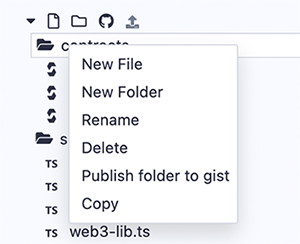
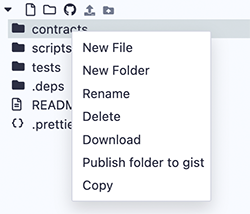
more updates to fe

diff --git a/docs/file_explorer.md b/docs/file_explorer.md
@@ -1,12 +1,12 @@
 File Explorer
 =============
-The File Explorer is for managing Workspaces and files.  There is also a context menu that pops up when you right click on a file or folder.
+The File Explorer is for managing workspaces and files.  There is also a context menu that pops up when you right click on a file or folder.
 
 To get to the File Explorer module - click the File Explorer icon.
 
 ![](images/a-file-explorer1a.png)
 
-The green checkmark at the top of the page means that this plugin is in the Remix codebase.  When you click on the caret it will show more info about the plugin including a link to this documentation.
+The green checkmark at the top of the page means that this plugin is maintained by Remix Team.  When the caret is clicked, more info about the plugin will be shown -including a link to this documentation.
 
 ![](images/a-fe-top-caret.png)
 
@@ -16,22 +16,30 @@ By default, Remix IDE stores files in **IndexedDB**.
 
 Coding in Remix IDE Online is different from writing in a Google doc. 
 - A Google doc saves your work to your account on Google’s servers.
-- Remix has no user accounts.  By default, files are ONLY saved locally in the browser’s storage. So tread carefully, browser storage is not permanent!
+- Remix has no user accounts. By default, files are ONLY saved locally in the browser’s storage. So tread carefully, browser storage is not permanent!
 
-See below for using other storage locations - notably **Remixd** to connect Remix to a specific folder on your hard drive.
+It is very important to have a file backup & file saving strategy. 
 
-**Important Note:** Clearing the browser storage & IndexedDB will **permanently delete** all the files stored there. 
+**Check the following techniques for:**
+- [saving to your hard drive](#file-storage-on-your-hard-drive)
+- using [remote Git repos](#connecting-remix-to-remote-git-repos)
+- [backing up workspaces](#backup).
+
+**Important Note:** Clearing the browser storage & IndexedDB will **permanently delete** all the files stored there. It is prudent to backup your workspaces before deleting them...just in case. 
 
 ### File Storage on your hard drive
-If you want to store files on your computer's filesystem, use **[Remixd](remixd.html)** or use the **[desktop version of Remix IDE](https://github.com/ethereum/remix-desktop/releases/)**. 
-- Remixd is a script that you run on your computer that shares a specified folder on your computer with Remix IDE.
-- Remix Desktop is a version of Remix IDE in an Electron app. When using Remix Desktop, you cannot use a browser wallet like MetaMask, because Remix Desktop does not run in a browser.  You'd need to connect using a service like Infura.
+#### Remixd
+For storing files on your computer's hard drive when using Remix Online IDE, use **[Remixd](remixd.html)** 
+- Remixd is an NPM module that runs on your computer. It allows you to share a specified folder on your computer with Remix IDE. 
+
+#### Remix Desktop
+Remix Desktop is a version of Remix IDE in an Electron app. Note that when using Remix Desktop, you cannot use a browser wallet like MetaMask, because Remix Desktop does not run in a browser.  To connect to public networks, you need to use service like Infura and then use the WalletConnect plugin to approve transactions on your mobile device.
 
 ### Connecting Remix to remote Git repos
 **If you are not using Remixd, it is highly recommended that you save to a remote repo.** 
 (Browsers do crash causing localstorage & indexedDB to be corrupted)
 
-Remix IDE can be connected to remote Git repos both on services like GitHub or repos in IPFS.  
+Remix IDE can be connected to remote Git repos hosted in GitHub (or similar service) or in IPFS.  
 Most of the Git operations are done in the **DGIT** pluin. (DGIT stands for Decentralized GIT).
 
 Branch management is also available at the bottom of the File Explorer when the Workspace is Git initialized.
@@ -39,15 +47,14 @@ Branch management is also available at the bottom of the File Explorer when the 
 
 Also see this article about [securing your files in Remix](https://medium.com/remix-ide/securing-you-file-in-remix-how-to-clone-and-push-f1350111aa13?source=friends_link&sk=a3dbd0d3b0b44a29a28e8c10f8821fde)
 
-
 Workspaces
 ------------
 
-Workspaces in Remix are special folders that separate projects.  Files in one Workspace cannot be accesses from another Workspace.  Workspaces are selected using the Workspace select box.
+Workspaces in Remix are special folders that separate projects.  Files in one workspace cannot import or access files in different workspace.  Choosing a workspace is done with the **Workspaces** select box.
 
 ![](images/a-fe-workspaces1.png)
 
-#### New Workspaces
+#### New Workspace
 Workspaces are created by clicking the + button or by going to the hamburger menu in the upper right side of the File Explorer.
 
 ![](images/a-fe-workspaces-new.png)
@@ -56,18 +63,18 @@ When making a new workspace, Remix offers the following templates:
 
 - Blank
 - Remix Default
-- Open Zeppelin ERC20
-- Open Zeppelin ERC721
-- Open Zeppelin ERC1155
-- 0x Project ERC20
+- OpenZeppelin ERC20
+- OpenZeppelin ERC721
+- OpenZeppelin ERC1155
+- 0xProject ERC20
 - Gnosis MultiSig
 
-When choosing an Open Zeppelin template, additional functionality can be added.
+When choosing an OpenZeppelin template, additional functionality can be added.
 ![](images/a-fe-modal-oz.png)
 
 #### Workspace operations
 
-The Workspace hamburger menu is for operations that work on an entire workspace.
+The **Workspace hamburger menu** is for operations that work on an entire workspace.
 
 ![](images/a-fe-hamburger.png)
 
@@ -77,23 +84,24 @@ When clicking Clone, you’ll be asked for the url of a remote repo. A new works
 Backup is for downloading all the Workspaces in a .zip file. The zip file will have a folder called **.workspaces** that will contain a folder of each Workspace.  Depending on your OS, you may need to change the preferences on .workspaces folder to make it visible.  
 
 ##### Restore
-Restore is only for uploading a .workspaces folder that was created using the Backup operation.
+Restore is only for uploading the backup zip file.
 
 ##### Create GitHub Actions
-The Workspace operations to create **Solidity Test Workflow**,  **Moca Chai Test Workflow**, and **Slither Workflow** are for creating GitHub actions. When clicked, a .yml file in the .workflows folder of the active Workspace.
+The Workspace operations to create **Solidity Test Workflow**,  **Mocha Chai Test Workflow**, and **Slither Workflow** are for creating GitHub actions. When clicked, a .yml file is created in the .workflows folder of the active Workspace.
 
 ### Workspaces initialized with Git
-Workspaces with an associated Git will have the Git icon next to them in the Workspaces select box.
+Git intialized workspaces will have the Git icon next to them in the **Workspaces** select box.
 
 ![](images/a-fe-select-git.png)
 
-When creating a new Workspace, there is a checkbox in the modal for choosing the template that will initialize the Workspace for Git.
+To initialize a new Workspace for GIT, check the box at the bottom of the Create Workspace modal.
+![](images/a-fe-create-ws-modal.png)
 
 Working with Files
 -------------------
 When a file is clicked on it will appear in the Editor.
 
-Files can be manipulated by right clicking on them ([see below](#right-click-on-a-file-or-folder)) and also by using the icons under the Workspace select box.
+Under the **Workspaces** select box are a number of icons that perform operations on files.  More operations can be accessed by right clicking on a file or folder ([see below](#right-click-on-a-file-or-folder)).
 
 ![](images/a-fe-file-icons2.png)
 
@@ -125,22 +133,20 @@ Take the token and paste it in Remix's **Settings** module in the **Github Acces
 
 You can also publish by right clicking on the file or folder.
 
-Right-Click on a File or Folder
+Right-Click popup menu
 -------------------------------
-
+### Right-Click on a folder
 ![](images/a-fe-rtclick-file.png)
 
-Right-clicking on a file or folder will bring a context menu — where you can create a folder or file within the same folder or to delete, rename, or publish the file or folder. 
+Right-clicking on a folder will bring a popup menu for operations you can do on that folder. 
 
-The functionality of the context menu also works with RemixD (which gives you have access to a folder on your hard drive).  
+The right-click popup menu also works with RemixD (which gives you have access to a folder on your hard drive).  
 
 **Note:** When working with RemixD, and when adding files to the shared folder from your computer (and not from Remix), you'll need to open and close the containing folder or switch in and out of **localhost** workspace to refresh the view.
 
-Right-Click Menu
----------------------
 ### Right-Click on a Solidity file
 
-Right-clicking on a file with a .sol extension will bring up an expanded context menu - which will also let you compile & flatten a file.
+Right-clicking on a file with a .sol extension will bring up a popup menu - which includes options for compiling & flattening, creating UML diagrams, and generating documentation.
 
 ![](images/a-fe-rtclick-sol-file.png)
 
@@ -148,6 +154,6 @@ Right-clicking on a file with a .sol extension will bring up an expanded context
 
 ![](images/a-fe-rtclick-script.png)
 
-Right-click on any file with a .js or .ts extension to get the **Run** option in the context menu to run the script.  The **Run** in the context menu is a shortcut.  The other way to get a script to run is to:
-1. Click on the script to make it the active tab in the editor 
-2. Input the command `remix.exeCurrent()` in the console.
+Right-click on any file with a .js or .ts extension to get the **Run** option in the popup menu to run the script.  
+
+If the script you want to run is the active file in the Editor, you can also run it by using play button at the top left of the Editor or by inputting the command `remix.exeCurrent()` in the console.
